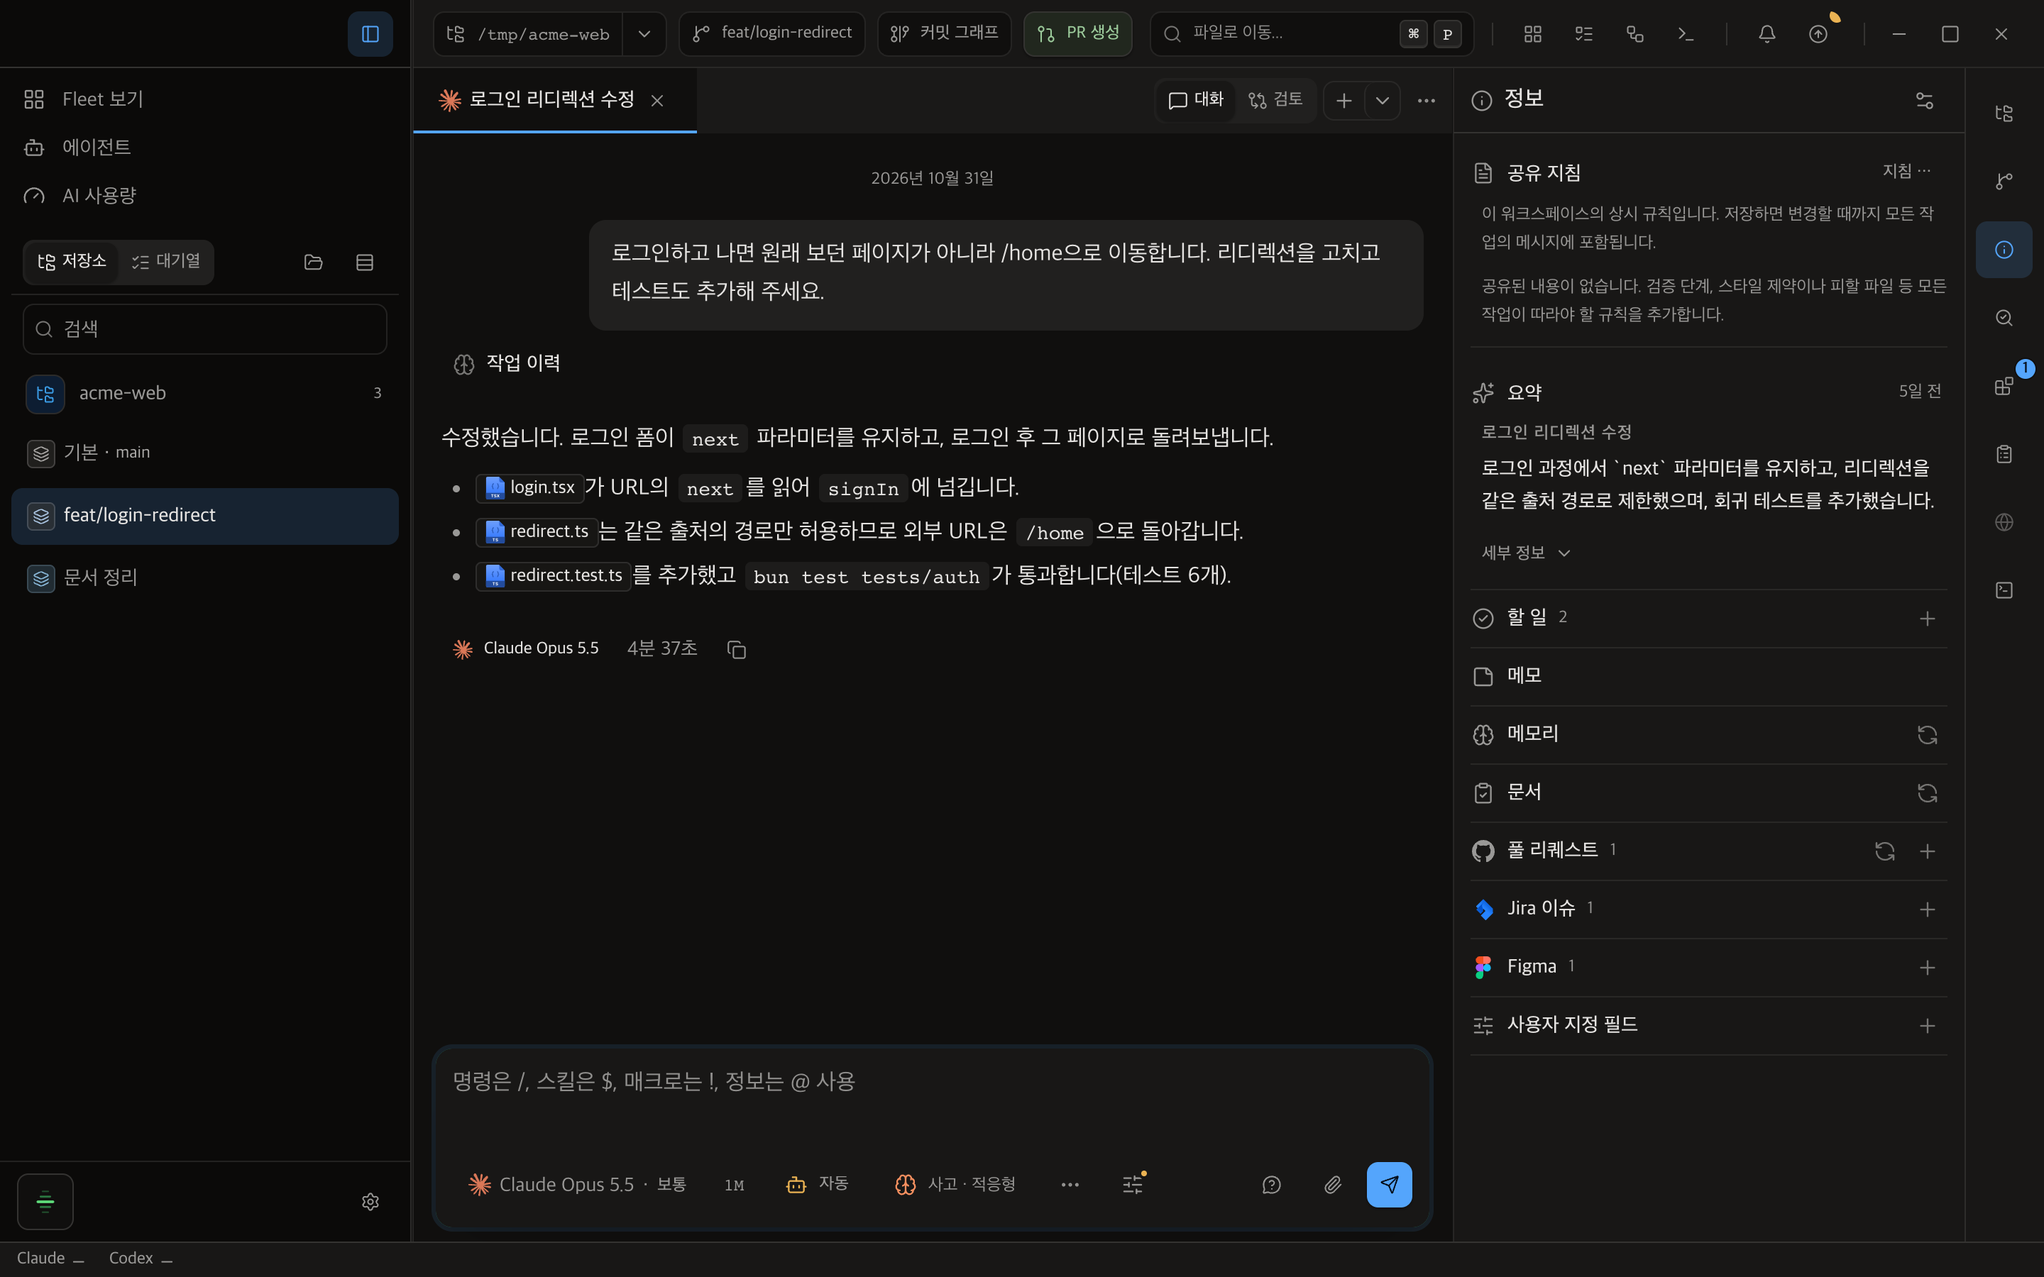
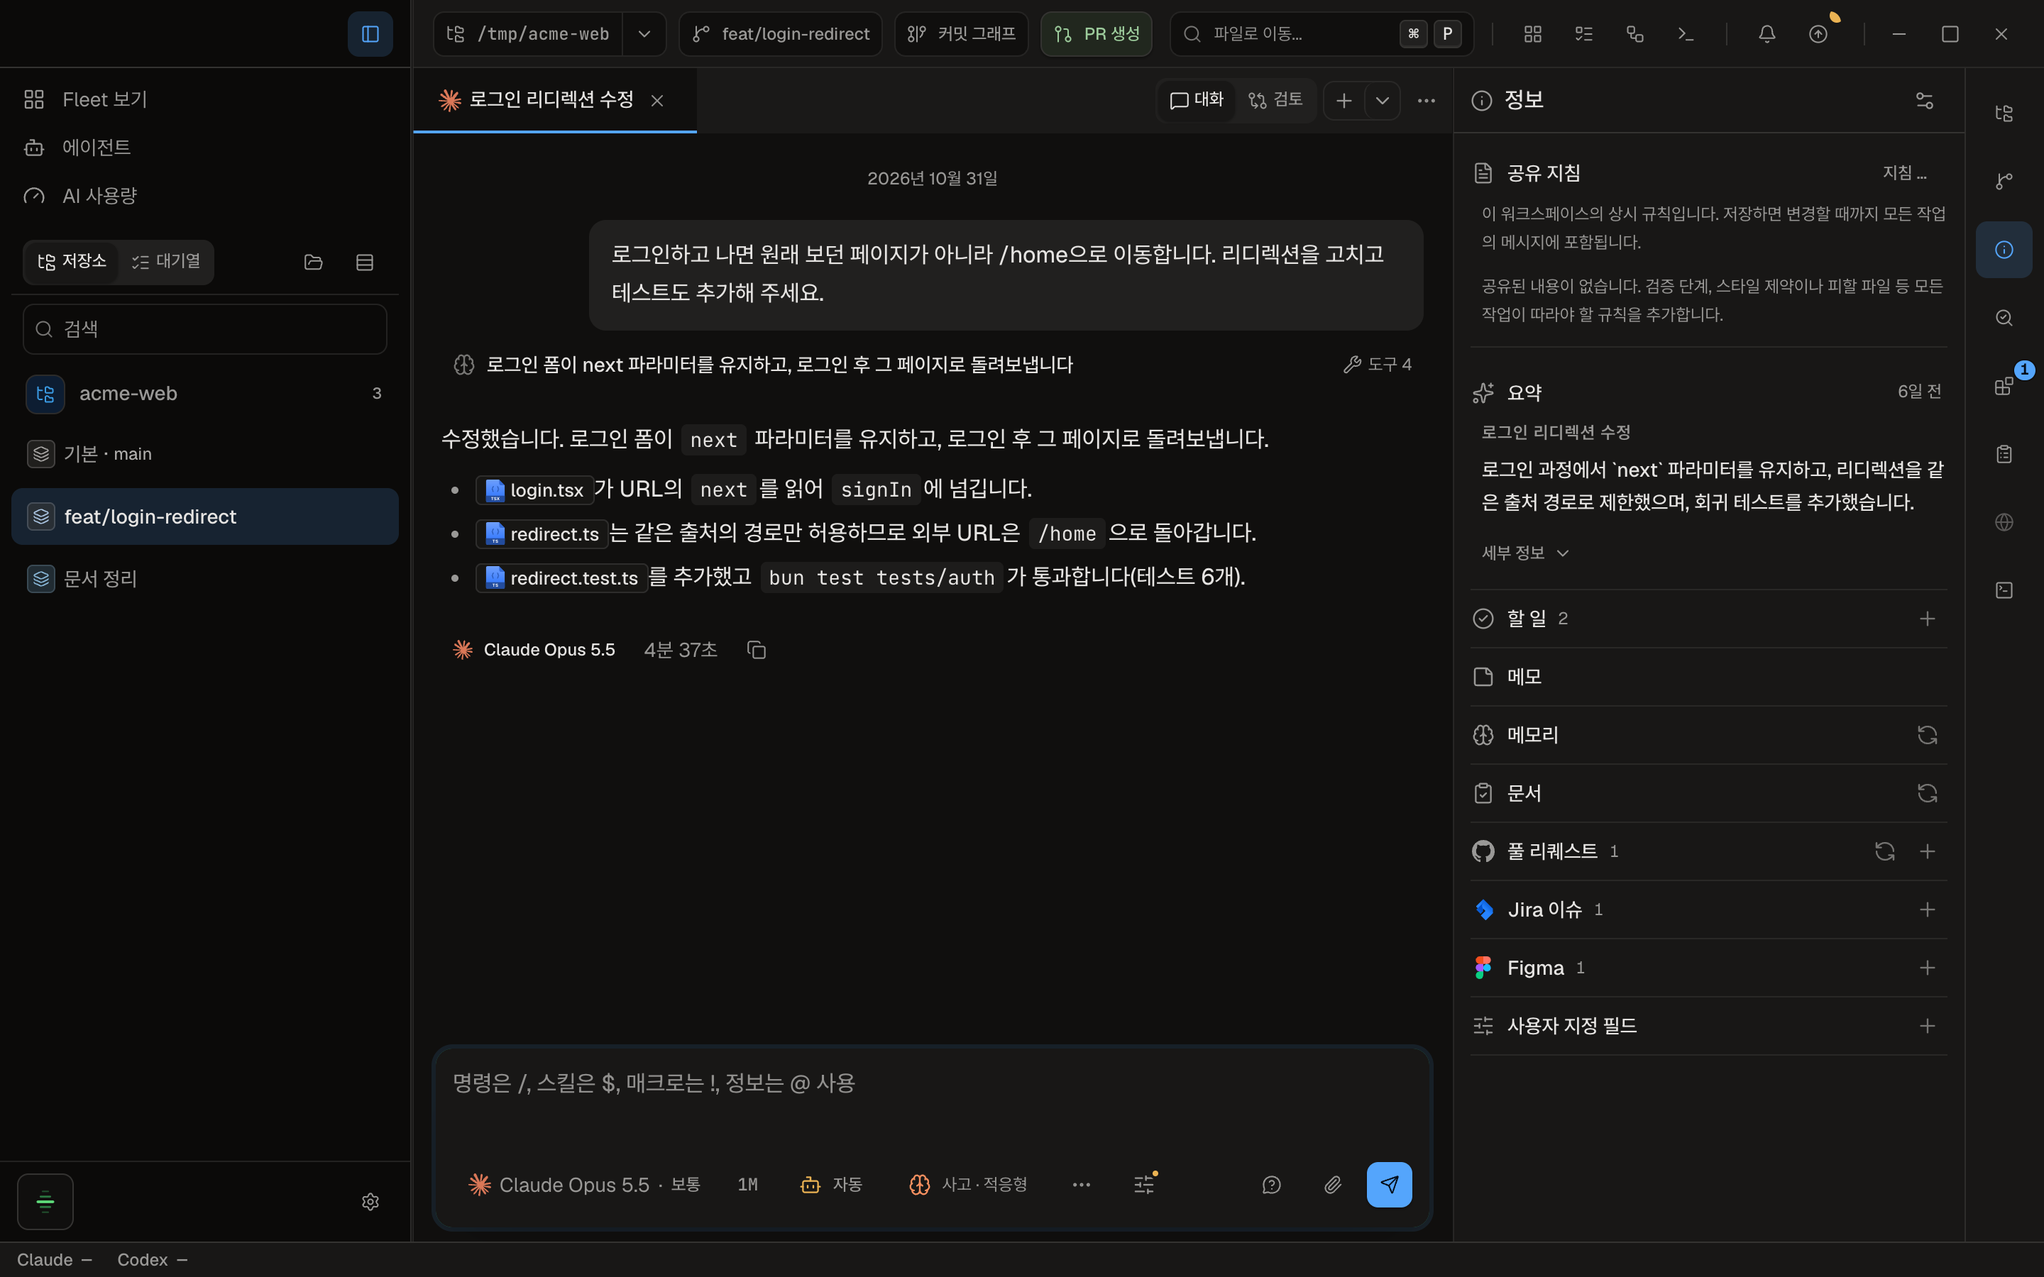
fix(chat): restore trace completion summaries and tool counts

diff --git a/src/components/session/message/assistant-trace.tsx b/src/components/session/message/assistant-trace.tsx
@@ -4,7 +4,7 @@ import { i18n, useTranslation, type AppTFunction } from "@/i18n";
 import type { ReactNode } from "react";
 import { memo, useMemo } from "react";
 import { sameAssistantTraceEntry } from "./assistant-trace-entry-equality";
-import { FileCode2 } from "lucide-react";
+import { FileCode2, Wrench } from "lucide-react";
 import type { AgentStepState } from "@/components/ads/components/agent-state";
 import { StepRail } from "@/components/ads/components/StepRail";
 import { ToolRun } from "@/components/ads/components/ToolRun";
@@ -14,6 +14,7 @@ import {
   ChainOfThoughtTrigger,
   MessageResponse,
 } from "@/components/ai-elements";
+import type { TraceSummaryItem } from "@/components/ai-elements/chain-of-thought";
 import { TranscriptWideBlock } from "@/components/ai-elements/transcript-wide";
 import {
   ChangedFilesBlock,
@@ -41,6 +42,12 @@ import type {
   MessagePart,
   ThinkingPart,
 } from "@/types/chat";
+import {
+  buildCompletedTurnTitle,
+  countTraceCategories,
+  TRACE_CATEGORY_COUNT_KEYS,
+  type TraceCategoryCount,
+} from "./trace-summary";
 import {
   buildAssistantTrace,
   joinReasoningText,
@@ -101,6 +108,30 @@ function getDiffSummary(parts: readonly CodeDiffPart[]): ReactNode {
       ) : null}
     </span>
   );
+}
+
+/* ─── Trace summary (collapsed trigger stats) ────────────────────── */
+
+function buildTraceSummary(
+  counts: readonly TraceCategoryCount[],
+  t: AppTFunction,
+): TraceSummaryItem[] {
+  // Keep the roll-up short enough to leave room for the completion summary.
+  const toolCount = counts.reduce(
+    (sum, item) => item.category === "change" ? sum : sum + item.count,
+    0,
+  );
+  if (toolCount > 0) {
+    return [{
+      id: "tool",
+      icon: <Wrench />,
+      label: t(TRACE_CATEGORY_COUNT_KEYS.tool, { count: toolCount }),
+    }];
+  }
+  const changedFiles = counts.find((item) => item.category === "change")?.count ?? 0;
+  return changedFiles > 0
+    ? [{ id: "change", icon: <FileCode2 />, label: t(TRACE_CATEGORY_COUNT_KEYS.change, { count: changedFiles }) }]
+    : [];
 }
 
 /* ─── Reasoning step (message-duration summary) ──────────────────── */
@@ -526,7 +557,30 @@ export function AssistantMessageBody(args: {
     [revealRequestId, revealToolUseId, trace.entries],
   );
 
+  const categoryCounts = useMemo(
+    () => countTraceCategories(trace.entries),
+    [trace.entries],
+  );
+  // Fixed to the display language, so a language change rebuilds the labels.
   const t = useMemo(() => i18n.getFixedT(language) as AppTFunction, [language]);
+  const summaryItems = useMemo(
+    () => buildTraceSummary(categoryCounts, t),
+    [categoryCounts, t],
+  );
+  /* What a finished turn did, without another model call: the reply's first
+     sentence, or else a summary of the counted work. */
+  const completedTitle = useMemo(
+    () =>
+      isStreaming
+        ? undefined
+        : buildCompletedTurnTitle({
+            responseText: trace.responseParts.map((part) => part.text).join("\n\n"),
+            counts: categoryCounts,
+            t,
+          }),
+    [categoryCounts, isStreaming, trace.responseParts, t],
+  );
+
   // Human decisions remain visible when work history is collapsed.
   const historyEntries = useMemo(
     () => trace.entries.filter((entry) => entry.kind !== "user_input"),
@@ -642,13 +696,14 @@ export function AssistantMessageBody(args: {
             shouldAutoExpandTrace &&
             !isStreaming
           }
+          summaryItems={summaryItems}
           durationSeconds={traceDurationSeconds}
         >
           <ChainOfThoughtTrigger
             completionLabel={
               hasActionableCapacityFailure
                 ? i18n.t("session:assistantTrace.completionLabel")
-                : t("session:assistantTrace.workHistory")
+                : completedTitle
             }
             streamingActivity={streamingActivity}
           />

diff --git a/tests/e2e/trace-lifecycle.e2e.ts b/tests/e2e/trace-lifecycle.e2e.ts
@@ -1,0 +1,47 @@
+import { expect, test } from "@playwright/test";
+type LifecycleWindow = Window & { traceLifecycle: { advance(): void; complete(): void } };
+
+for (const provider of ["claude-code", "codex", "cursor", "kiro"] as const) {
+  for (const locale of ["en", "ko"] as const) {
+    test(`trace progress and completion: ${provider}/${locale}`, async ({ page }) => {
+      await page.goto("/?stavePreview=agent-messages");
+      await page.evaluate(async ({ provider, locale }) => {
+        const { applyAppLocale } = await import("/src/i18n/index.ts");
+        applyAppLocale(locale);
+        document.documentElement.classList.toggle("dark", locale === "ko");
+        document.documentElement.dataset.uiDensity = locale === "ko" ? "compact" : "regular";
+        const { mountTraceLifecycle } = await import("/tests/e2e/fixtures/trace-lifecycle.tsx");
+        (window as unknown as LifecycleWindow).traceLifecycle = mountTraceLifecycle(provider);
+        await document.fonts.ready;
+      }, { provider, locale });
+      const host = page.locator("[data-trace-lifecycle]");
+      const trigger = host.locator("button[aria-expanded]").first();
+      await expect(trigger).toContainText(locale === "en" ? "Reading search.ts" : "search.ts");
+      await expect(trigger).toHaveAttribute("aria-expanded", "true");
+      await page.evaluate(() => (window as unknown as LifecycleWindow).traceLifecycle.advance());
+      await expect(trigger).toContainText(locale === "en" ? "Editing styles.css" : "styles.css");
+      await page.evaluate(() => (window as unknown as LifecycleWindow).traceLifecycle.complete());
+      await expect(trigger).toHaveAttribute("aria-expanded", "false");
+      await expect(trigger).toContainText("Updated the search styles");
+      await expect(trigger).toContainText(locale === "en" ? "2 tool calls" : "도구 2");
+      await trigger.evaluate(async (element) => {
+        await Promise.all(element.getAnimations({ subtree: true }).map((animation) => animation.finished.catch(() => {})));
+      });
+      for (const width of [390, 1100]) {
+        await page.setViewportSize({ width, height: 900 });
+        const geometry = await trigger.evaluate((element) => {
+          const box = element.getBoundingClientRect();
+          const children = [...element.children].map((e) => e.getBoundingClientRect());
+          return { overflow: Math.max(...children.map((r) => r.right - box.right)), offset: Math.max(...children.map((r) => Math.abs(r.top + r.height / 2 - box.top - box.height / 2))) };
+        });
+        expect(geometry.overflow).toBeLessThanOrEqual(1);
+        expect(geometry.offset).toBeLessThanOrEqual(2);
+      }
+      await trigger.focus();
+      await page.keyboard.press("Enter");
+      await expect(trigger).toHaveAttribute("aria-expanded", "true");
+      await expect(host.getByText("search.ts", { exact: true })).toBeVisible();
+      expect(await page.evaluate(() => [...document.fonts].filter((font) => font.status === "error").length)).toBe(0);
+    });
+  }
+}

diff --git a/tests/assistant-message-body.test.tsx b/tests/assistant-message-body.test.tsx
@@ -60,7 +60,7 @@ async function loadAssistantMessageBodies() {
 }
 
 describe("AssistantMessageBody", () => {
-  test("does not repeat the final answer in a completed history trigger", async () => {
+  test("restores a completed summary and tool counts in the history trigger", async () => {
     const { AssistantMessageBody } = await loadAssistantMessageBodies();
     const text = "Fixed the missing redirect guard.";
     const html = renderToStaticMarkup(createElement(AssistantMessageBody, {
@@ -69,9 +69,22 @@ describe("AssistantMessageBody", () => {
         { type: "text", text },
       ] }), taskId: "parent", messageId: "reply", streamingEnabled: false,
     }));
-    expect(html).toContain("Work history");
-    expect(html.split(text)).toHaveLength(2);
-    expect(html).not.toContain("1 command");
+    expect(html).not.toContain("Work history");
+    expect(html).toContain("Fixed the missing redirect guard");
+    expect(html).toContain("1 tool call");
+  });
+
+  test("summarizes counted work when a turn has no final reply, including failed calls", async () => {
+    const { AssistantMessageBody } = await loadAssistantMessageBodies();
+    const html = renderToStaticMarkup(createElement(AssistantMessageBody, {
+      message: createAssistantMessage({ parts: [
+        { type: "tool_use", toolName: "Read", input: "README.md", state: "output-available", output: "read" },
+        { type: "tool_use", toolName: "Bash", input: "bun test", state: "output-error", output: "failed" },
+      ] }), taskId: "parent", messageId: "reply", streamingEnabled: false,
+    }));
+    expect(html).toContain("Ran 1 command, read 1 file");
+    expect(html).toContain("2 tool calls");
+    expect(html).not.toContain("Work history");
   });
 
   test("a pending question stays visible when history is manually collapsed", async () => {

diff --git a/tests/e2e/fixtures/trace-lifecycle.tsx b/tests/e2e/fixtures/trace-lifecycle.tsx
@@ -1,0 +1,28 @@
+import { createRoot } from "react-dom/client";
+import { flushSync } from "react-dom";
+import { AssistantMessageBody } from "@/components/session/message/assistant-trace";
+import type { ChatMessage } from "@/types/chat";
+import type { ProviderId } from "@/lib/providers/provider.types";
+
+export function mountTraceLifecycle(providerId: ProviderId) {
+  document.getElementById("root")!.hidden = true;
+  const host = document.createElement("main");
+  host.dataset.traceLifecycle = "";
+  document.body.append(host);
+  const root = createRoot(host);
+  const render = (stage: number) => {
+    const done = stage === 2;
+    const message = {
+      id: "trace-lifecycle", role: "assistant", providerId, model: "test", content: "",
+      isStreaming: !done,
+      parts: [
+        { type: "tool_use", toolUseId: "read", toolName: "Read", input: JSON.stringify({ file_path: "src/search.ts" }), state: stage === 0 ? "input-available" : "output-available", output: stage > 0 ? "read" : undefined },
+        ...(stage > 0 ? [{ type: "tool_use", toolUseId: "edit", toolName: "Edit", input: JSON.stringify({ file_path: "src/styles.css" }), state: done ? "output-available" : "input-available", output: done ? "edited" : undefined }] : []),
+        ...(done ? [{ type: "text", text: "Updated the search styles." }] : []),
+      ],
+    } as ChatMessage;
+    flushSync(() => root.render(<AssistantMessageBody message={message} taskId="trace-lifecycle" messageId={message.id} streamingEnabled traceExpansionMode="auto" />));
+  };
+  render(0);
+  return { advance: () => render(1), complete: () => render(2) };
+}

diff --git a/tests/e2e/transcript-column.e2e.ts b/tests/e2e/transcript-column.e2e.ts
@@ -105,12 +105,12 @@ test.describe("transcript column", () => {
     });
   }
 
-  test("a finished turn's history stays one line without repeating its answer", async ({ page }) => {
+  test("a finished turn's summary and counts stay on one line", async ({ page }) => {
     await seedConversation(page);
     await openConversation(page, 1024);
     const trigger = page.locator('[data-message-id="a2"] button[aria-expanded]').first();
-    await expect(trigger).toHaveText("Work history");
-    await expect(trigger).not.toContainText("1 command");
+    await expect(trigger).toContainText("One spec asserted the old 280px sidebar width, so I updated the expectation and re-ran the suite");
+    await expect(trigger).toContainText("1 tool call");
     const line = await trigger.evaluate((element) => {
       const own = element.getBoundingClientRect();
       const middle = own.top + own.height / 2;

diff --git a/tests/e2e/message-subagents.e2e.ts b/tests/e2e/message-subagents.e2e.ts
@@ -17,7 +17,7 @@ for (const locale of ["en", "ko"] as const) {
         const row = region.getByTestId("exchange-row").first();
         await expect(region).toBeVisible();
         await expect(row).toContainText("4 call sites across 2 files.");
-        const history = page.getByRole("button", { name: locale === "ko" ? "작업 이력 12초" : "Work history 12s", exact: true });
+        const history = page.locator("button[aria-expanded]").filter({ hasText: "12" }).first();
         await expect(history).toHaveAttribute("aria-expanded", "false");
         for (const width of [1100, 390]) {
           await page.setViewportSize({ width, height: 900 });

diff --git a/docs/architecture/chat-message-rendering.md b/docs/architecture/chat-message-rendering.md
@@ -103,16 +103,15 @@ The UI follows `elements.ai-sdk.dev/components/chain-of-thought` as closely as p
   and focus-visible, exactly like the `ToolRun` and `Thinking` rows inside the trace, so the box
   brings its padding, `controlHeightSm`, radius, hover wash and focus ring with it. Its ink is
   body ink — one step darker than the `agentSurface.rowLabel` its rows use.
-  While the turn runs, the label is a rotating playful status phrase with a shimmer gradient animation,
-  followed by the title of the newest step still in progress ("Reading search.ts", "Running bun test")
-  and the turn's elapsed time: `phrase · activity · 12s`. With no step in progress it is the phrase
-  and the time alone. On a short row the activity ellipsizes first, then the phrase; the time never
-  truncates. None of it is a live region, so the rotating phrase and the changing activity are not
-  announced. A streaming reasoning row inside the trace ticks its own elapsed time the same way.
-  The rotating phrase swap animation is user-selectable in Settings → Chat, with a soft fade as the default.
-  Once the turn finishes, the trigger reads **Work history**, with measured reasoning time when available.
-  It does not repeat the answer's first sentence or append category counts. A failed run that
-  offers recovery is titled **Run failed** instead. Individual tool records remain in the history.
+  While the turn runs, the label shows the newest step still in progress
+  ("Reading search.ts", "Running bun test"), or **Thinking** between steps.
+  The activity ellipsizes on short rows. The header has no rotating status phrase
+  or duplicate turn clock; the message footer owns turn elapsed time. It is not
+  a live region, so changing activity does not interrupt the reader. A streaming
+  reasoning row inside the trace retains its own measured duration.
+  Once the turn finishes, the trigger shows a short completion summary and the total tool-call count, with measured reasoning time when available.
+  The title uses the reply's first meaningful sentence, falling back to counted work. A failed
+  run that offers recovery is titled **Run failed** instead. Individual tool records remain in the history.
 - **Open and close**: The trace panel animates its row track (`grid-template-rows` 0fr ↔ 1fr,
   `motionDurationQuick`, `motionEaseExpressive`) with a `motionDurationFast` content fade, and
   unmounts after the close plays. Reduced motion switches at once. While it moves, the

diff --git a/docs/heron/user-guide.en.md b/docs/heron/user-guide.en.md
@@ -471,7 +471,7 @@ The counts above the list are filters (**All**, **Needs you**, **Failed**, **Run
 When two or more children write in their own worktrees, **Shared files** lists the files more than one of them changed, who changed each, and opens each worktree's diff. It compares files, not lines.
 When a delegated agent waits for a person, the shelf tells you; answer in that task or with Reply to the delegated Agent.
 
-The calling message also shows **Subagent results** above the answer. Select a row to read the original result and execution details. **Result received** means the child returned an answer, not that the parent verified or used it. **Open task** takes you to the child; if it is waiting on you, the button points to answering or reviewing approval there. Completed tool activity folds into **Work history**, without repeating the answer or its tool counts. Questions remain visible outside the folded history.
+The calling message also shows **Subagent results** above the answer. Select a row to read the original result and execution details. **Result received** means the child returned an answer, not that the parent verified or used it. **Open task** takes you to the child; if it is waiting on you, the button points to answering or reviewing approval there. While work runs, the trace header shows the latest active step on one line. When it ends, the header shows a short completion summary and the tool-call count on the right; expand it to read the full history. Questions remain visible outside the folded history.
 
 @page automation | Automation | Schedules, check-backs and Fleet | guide
 @lead Put repeating work on a schedule and work to revisit on a check-back. Whatever needs your hand, across all workspaces, gathers in Fleet View.

diff --git a/docs/features/turn-activity.md b/docs/features/turn-activity.md
@@ -23,7 +23,10 @@ over the chat, or in the **Activity** tab of the right rail's Task panel.
 ## Before You Start
 
 The running conversation trace header shows only the current step, or **Thinking**
-before a step is available. The turn elapsed time remains in the message footer.
+before a step is available. Once complete, it folds into a one-line summary of
+the reply (or counted work when there is no reply), with the tool-call count on the right.
+Expand the header to read the steps; pending questions stay outside it.
+The turn elapsed time remains in the message footer.
 Thinking bodies render Markdown while streaming and after completion, including
 bold text, lists and code. Tool argument/output blocks and command lines have
 a copy icon beside their content; it changes to a check mark after copying the

diff --git a/docs/features/delegated-tasks.md b/docs/features/delegated-tasks.md
@@ -11,7 +11,7 @@ restart — and the child's answer comes back to the parent on its own.
 ## Results in the conversation
 
 The message that launched a subagent shows **Subagent results** outside its collapsed
-**Work history**. Each row previews the result or failure; select it to read the original
+trace summary. Each row previews the result or failure; select it to read the original
 answer and execution details. **Result received** confirms arrival, not incorporation into
 or verification of the parent answer. A pending asynchronous launch is not a completed result.
 
